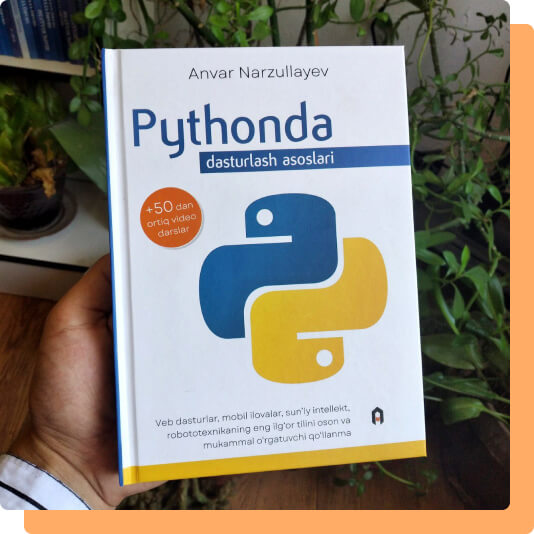
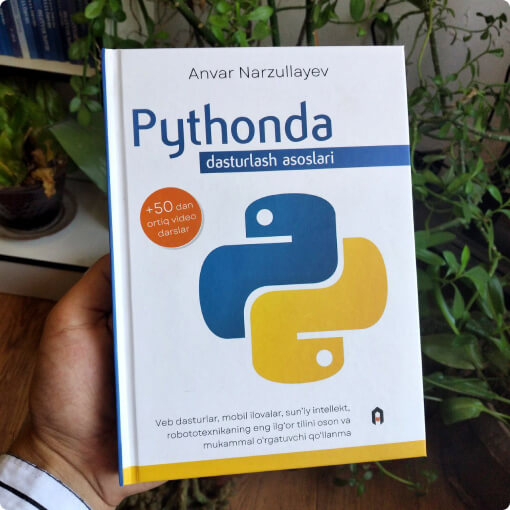
add padding, border, border-radius

diff --git a/akademiknashr.html b/akademiknashr.html
@@ -17,13 +17,13 @@
 
      <!-- site header -->
           <header class="site-header">
-     <a href="/akademiknashr.html">
+     <a class="logo-link" href="/akademiknashr.html">
           <img src="/photos/logo.jpg" alt="akademnashr logosi" width="227" height="60"><a>
      <!-- site nav  -->
      <div class="site-header-actions">
           <nav>
                <ul class="site-nav-list">
-                    <li><a class="sitenav-link nav-head"  href="#">Bosh Sahifa</a></li>
+                    <li><a class="sitenav-link"  href="#">Bosh Sahifa</a></li>
                     <li><a class="sitenav-link"  href="#">Kitoblar</a></li>
                     <li><a class="sitenav-link"  href="#">Aksiyalar</a></li>
                     <li><a class="sitenav-link"  href="#">Kontaktlar</a></li>
@@ -99,7 +99,7 @@
      <!-- site footer -->
      <footer class="site-footer">
      <div class="site-footer-top">
-          <a  href="/index.html">
+          <a class="logo-link"  href="/index.html">
           <img src="/photos/logo.jpg" alt="akademnashr logosi" width="227" height="60"
           srcset="/photos/logo.jpg 1x, /photos/logo@2x.jpg 2x">
           </a>
@@ -109,24 +109,25 @@
                <li><a href="https://t.me/Akademnashr" target="_blank" >
                     <svg width="24" height="24" fill="none" xmlns="http://www.w3.org/2000/svg"><path
                          d="M12 0C5.376 0 0 5.376 0 12s5.376 12 12 12 12-5.376 12-12S18.624 0 12 0zm5.568
-                         8.16c-.18 1.896-.96 6.504-1.356 8.628-.168.9-.504 1.2-.816 1.236-.696.06-1.224-.456-1.896-.9-1.056-.696-1.656-1.128-2.676-1.8-1.188-.78-.42-1.212.264-1.908.18-.18 3.252-2.976 3.312-3.228a.24.24 0 00-.06-.216c-.072-.06-.168-.036-.252-.024-.108.024-1.788 1.14-5.064 3.348-.48.324-.912.492-1.296.48-.432-.012-1.248-.24-1.86-.444-.756-.24-1.344-.372-1.296-.792.024-.216.324-.432.888-.66 3.504-1.524 5.832-2.532 6.996-3.012 3.336-1.392 4.02-1.632 4.476-1.632.096 0 .324.024.468.144.12.096.156.228.168.324-.012.072.012.288 0 .456z" fill="#252420"/></svg>
+                         8.16c-.18 1.896-.96 6.504-1.356 8.628-.168.9-.504 1.2-.816 1.236-.696.06-1.224-.456-1.896-.9-1.056-.696-1.656-1.128-2.676-1.8-1.188-.78-.42-1.212.264-1.908.18-.18 3.252-2.976 3.312-3.228a.24.24 0 00-.06-.216c-.072-.06-.168-.036-.252-.024-.108.024-1.788 1.14-5.064 3.348-.48.324-.912.492-1.296.48-.432-.012-1.248-.24-1.86-.444-.756-.24-1.344-.372-1.296-.792.024-.216.324-.432.888-.66 3.504-1.524 5.832-2.532 6.996-3.012 3.336-1.392 4.02-1.632 4.476-1.632.096 0 .324.024.468.144.12.096.156.228.168.324-.012.072.012.288 0 .456z" fill="currentColor"/></svg>
                </a></li>
                    <li><a href="https://www.facebook.com/Akademnashr/" target="_blank">
                     <svg width="24" height="24" fill="none" xmlns="http://www.w3.org/2000/svg"><path
                           d="M22.675 0H1.325C.593 0 0 .593 0
                          1.325v21.351C0 23.407.593 24 1.325 24H12.82v-9.294H9.692v-3.622h3.128V8.413c0-3.1 1.893-4.788 4.659-4.788 1.325 0
                          2.463.099 2.795.143v3.24l-1.918.001c-1.504 0-1.795.715-1.795 1.763v2.313h3.587l-.467 3.622h-3.12V24h6.116c.73 0 1.323-.593
-                         1.323-1.325V1.325C24 .593 23.407 0 22.675 0z" fill="#252420"/></svg>
+                         1.323-1.325V1.325C24 .593 23.407 0 22.675 0z" fill="currentColor"/></svg>
                </a></li>
                <li><a href="https://www.instagram.com/akademnashr/?hl=en" target="_blank">
                     <svg width="24" height="24" fill="none" xmlns="http://www.w3.org/2000/svg"><path
                          fill-rule="evenodd" clip-rule="evenodd" d="M12 0C8.741 0 8.333.014 7.053.072
                          2.695.272.273 2.69.073 7.052.014 8.333 0 8.741 0 12c0 3.259.014 3.668.072 4.948.2
                           4.358 2.618 6.78 6.98 6.98C8.333 23.986 8.741 24 12 24c3.259 0 3.668-.014 4.948-.072
-                          4.354-.2 6.782-2.618 6.979-6.98.059-1.28.073-1.689.073-4.948 0-3.259-.014-3.667-.072-4.947-.196-4.354-2.617-6.78-6.979-6.98C15.668.014 15.259 0 12 0zm0 2.163c3.204 0 3.584.012 4.85.07 3.252.148 4.771 1.691 4.919 4.919.058 1.265.069 1.645.069 4.849 0 3.205-.012 3.584-.069 4.849-.149 3.225-1.664 4.771-4.919 4.919-1.266.058-1.644.07-4.85.07-3.204 0-3.584-.012-4.849-.07-3.26-.149-4.771-1.699-4.919-4.92-.058-1.265-.07-1.644-.07-4.849 0-3.204.013-3.583.07-4.849.149-3.227 1.664-4.771 4.919-4.919 1.266-.057 1.645-.069 4.849-.069zM5.838 12a6.162 6.162 0 1112.324 0 6.162 6.162 0 01-12.324 0zM12 16a4 4 0 110-8 4 4 0 010 8zm4.965-10.405a1.44 1.44 0 112.881.001 1.44 1.44 0 01-2.881-.001z" fill="#252420"/></svg>
+                          4.354-.2 6.782-2.618 6.979-6.98.059-1.28.073-1.689.073-4.948 0-3.259-.014-3.667-.072-4.947-.196-4.354-2.617-6.78-6.979-6.98C15.668.014 15.259 0 12 0zm0 2.163c3.204 0 3.584.012 4.85.07 3.252.148 4.771 1.691 4.919 4.919.058 1.265.069 1.645.069 4.849 0 3.205-.012 3.584-.069 4.849-.149 3.225-1.664 4.771-4.919 4.919-1.266.058-1.644.07-4.85.07-3.204 0-3.584-.012-4.849-.07-3.26-.149-4.771-1.699-4.919-4.92-.058-1.265-.07-1.644-.07-4.849 0-3.204.013-3.583.07-4.849.149-3.227 1.664-4.771 4.919-4.919 1.266-.057 1.645-.069 4.849-.069zM5.838 12a6.162 6.162 0 1112.324 0 6.162 6.162 0 01-12.324 0zM12 16a4 4 0 110-8 4 4 0 010 8zm4.965-10.405a1.44 1.44 0 112.881.001 1.44 1.44 0 01-2.881-.001z" fill="currentColor"/></svg>
                </a></li>
           </ul>
           <hr class="site-footer-divider">
+
      </div >
 
      <!-- LINKLAR  -->

diff --git a/styles/styles.css b/styles/styles.css
@@ -5,11 +5,29 @@ body{
      line-height:1.5 ;
      letter-spacing: 0.5px;
 }
+
+*:focus{
+     outline: 2px dotted #FF7500;
+     outline-offset: 3px;
+}
 .site-header {
+     padding-top: 16px;
+     padding-bottom: 16px;
+     border-top: 3px solid #FF7500;
      background-color: #fff;
      display: flex;
      align-items: center;
      justify-content: space-between;
+}
+
+.logo-link{
+     transition: opacity 0.4s, ease;
+}
+.logo-link:hover{
+     opacity: 0.8;
+}
+.logo-link:active{
+     opacity: 0.6;
 }
 
 .site-header-actions{
@@ -20,6 +38,7 @@ body{
 .site-nav-list{
      list-style: none;
      display: flex;
+     padding: 0;
 }
 
 
@@ -32,25 +51,42 @@ body{
      text-transform: uppercase;
      text-decoration: none;
      font-family: 'Roboto', sans-serif;
+     transition: color 0.4s ease,
+     opacity 0.4s ease;
 }
-
-.nav-head{
-     text-decoration:underline;
-     height: 3px;
+.sitenav-link:hover{
      color: #FF7500;
 }
+
+.sitenav-link:active{
+     opacity: 0.6;
+}
+
+
 /* main lint  */
 .main-button{
+     font-weight: bold;
+     display: inline-block;
+     padding: 12px 24px;
      font-size: 13px;
      line-height: 15px;
      color: #fff;
      background-color: #FF7500;
      text-decoration: none;
-
      border-radius: 4px;
+     transition: opacity 0.4s ease;
+}
+.main-button:hover{
+     opacity: 0.8;
+}
+
+.main-button:active{
+     opacity: 0.6;
 }
 /* HERO  */
 .hero{
+     padding-top: 80px;
+     padding-bottom: 80px;
      align-items: center;
      background-color: #252420;
      color: #fff;
@@ -65,6 +101,7 @@ body{
      margin: 90px;
 }
 .orange-line{
+     border: 0;
      width: 80px;
      height: 1px;
      background-color: #FF7500;
@@ -78,6 +115,7 @@ body{
 .hero-image{
      width: 510px;
      height: 510px;
+     border-radius: 8px;
 }
 
 /* FEATURES  */
@@ -90,8 +128,12 @@ body{
      font-family: "Roboto Condensed", "Roboto", "Arial", sans-serif;
 
 }
-
+.features{
+     padding-top: 210px;
+     padding-bottom: 210px;
+}
 .features-list{
+     padding: 0;
      display: flex;
      justify-content: space-between;
      list-style: none;
@@ -102,6 +144,10 @@ body{
 }
 
 .feature-icon-wrapper{
+     display: flex;
+     align-items: center;
+     justify-content: center;
+     border-radius: 50%;
      width: 100px;
      height: 100px;
      background-color: rgba(255, 117, 0, 0.2);
@@ -115,6 +161,7 @@ body{
 
 /* PRMOMO */
 .promo{
+     border-radius: 12px;
      display: flex;
      justify-content: space-around;
      background-color: rgba(37, 36, 32, 1);
@@ -134,6 +181,7 @@ body{
 }
 
 .promo-image{
+     border-radius: 12px;
      width: 440px;
      height: 440px;
      object-fit: cover;
@@ -149,19 +197,35 @@ body{
 
 .site-footer{
      background-color: #F8F8F8;
+     padding-top: 56px;
+     padding-bottom: 56px;
+
 }
 
 .site-footer-socials{
+     justify-content: space-evenly;
+     padding: 0;
      display: flex;
-     justify-content: space-between;
      align-items: center;
+
 }
 
+.site-footer-socials a{
+     color: #252420;
+     padding: 0;
+}
+.site-footer-socials a:hover{
+     color: #FF7500;
+}
+.site-footer-socials a:active{
+     opacity: 0.6;
+}
 .site-footer-bottom{
      display: flex;
 }
 
 .site-footer-divider{
+     border: 0;
      height: 2px;
      background-color: #25242080;
 }
@@ -179,4 +243,12 @@ body{
      text-decoration: none;
      color: #252420;
      line-height: 19px;
+}
+
+.site-footer-link-list a:hover{
+     color: #FF7500;
+}
+
+.site-footer-link-list a:active{
+     opacity: 0.6;
 }
